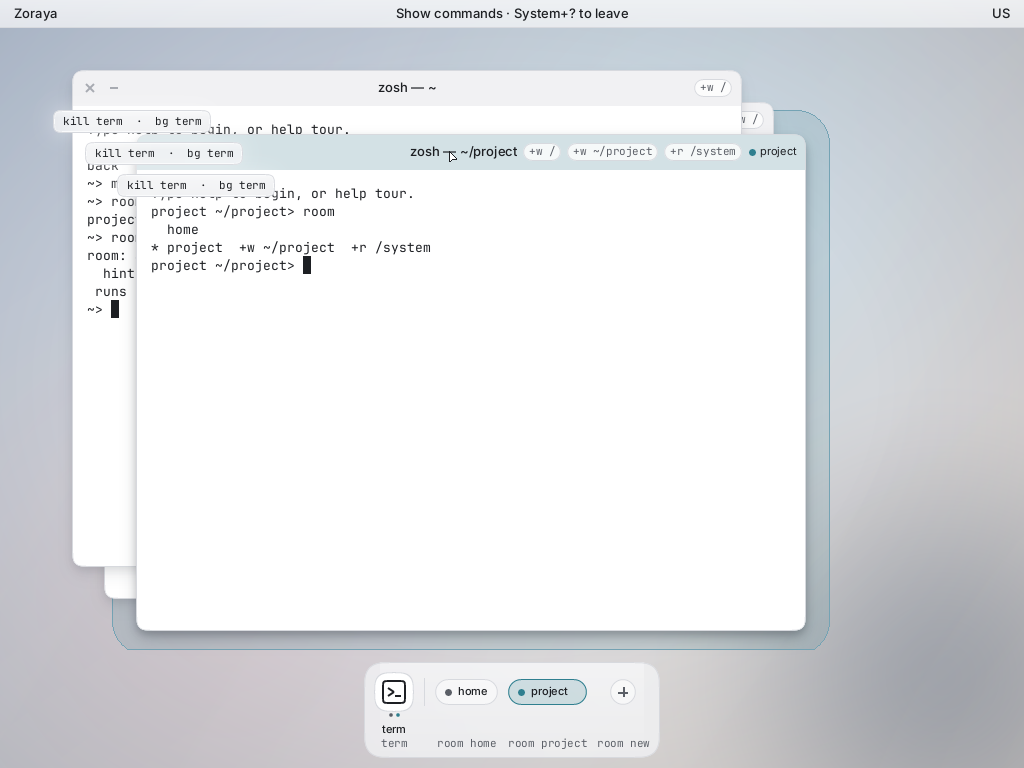
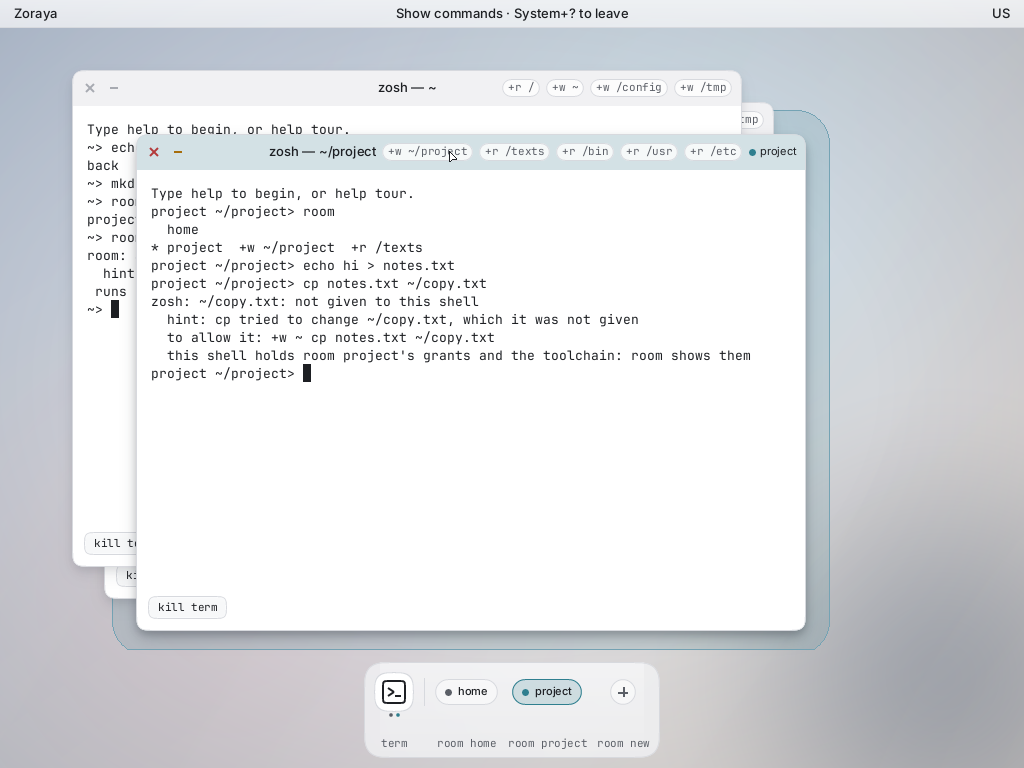
7d: the screens retaken (show-commands, rooms), the room hint on one line

diff --git a/user/src/bin/zosh.rs b/user/src/bin/zosh.rs
@@ -698,7 +698,7 @@ impl Z {
         );
         if let Some(r) = &self.room {
             s.push_str(&format!(
-                "  this shell holds room {}'s grants and the toolchain to read, nothing else: room shows them\n",
+                "  this shell holds room {}'s grants and the toolchain: room shows them\n",
                 r.name
             ));
         }

diff --git a/docs/tasks/TASK-24-report.md b/docs/tasks/TASK-24-report.md
@@ -449,11 +449,16 @@ Under `docs/research/desktop/shots/7d/` (712 KB):
   Against `clear-field/rooms.png`: the field, the tint, the badge and the chips as in the mockup. Not there: the Rooms
   sheet (System+R), which no 7d ADR asks for (the shell's `room` is the way in); the field's header tag is hidden
   under the `home` window here; the untrusted room (no way to make one, as above); the clock; the other applications'
-  tiles. The terminal's pills include `+w /` because every terminal holds the root (above).
+  tiles. Retaken after ADR-0242's condition: the room's terminal shows its grants and the toolchain (`+w ~/project`,
+  `+r /texts`, `+r /bin`, `+r /usr`, `+r /etc`) and no `+w /`; the first terminal shows `home`'s four.
 - `dock-qemu.png`: dock B with the terminal tile, its two running dots and the `home` chip, against `clear-field/dock.png`;
   the same materials, sizes and dots, with one tile instead of five.
-- `commands-qemu.png`: show-commands mode, each tile and chip with the text of its command, against
-  `clear-field/commands.png`, with the same reduction.
+- `commands-qemu.png` (retaken after the architect's review): show-commands mode. Each window's `kill term` tag sits
+  inside its own frame at the body's lower left, covered by the windows above it as the mockup's are; the dock's
+  terminal tile has one line (`term` is its name and its command), each chip its own width with its line centred under
+  it. Against `clear-field/commands.png`: the same placement and materials; the mockup's room tag on a window
+  (`room project`) and its `bg` tag (for a program started with `&`) are not drawn, since minimising is not the
+  shell's `bg` and the field's header names the room.
 - `rooms-light.png`, `rooms-dark.png`: the compositor's own rendering on the host (the ignored test `rooms_samples`)
   of three rooms with an untrusted one, in both themes: the reserved hue, the two-pixel edge, the word `untrusted`,
   the folded pills and the fields cut back between rooms, which the QEMU desktop cannot show yet.
